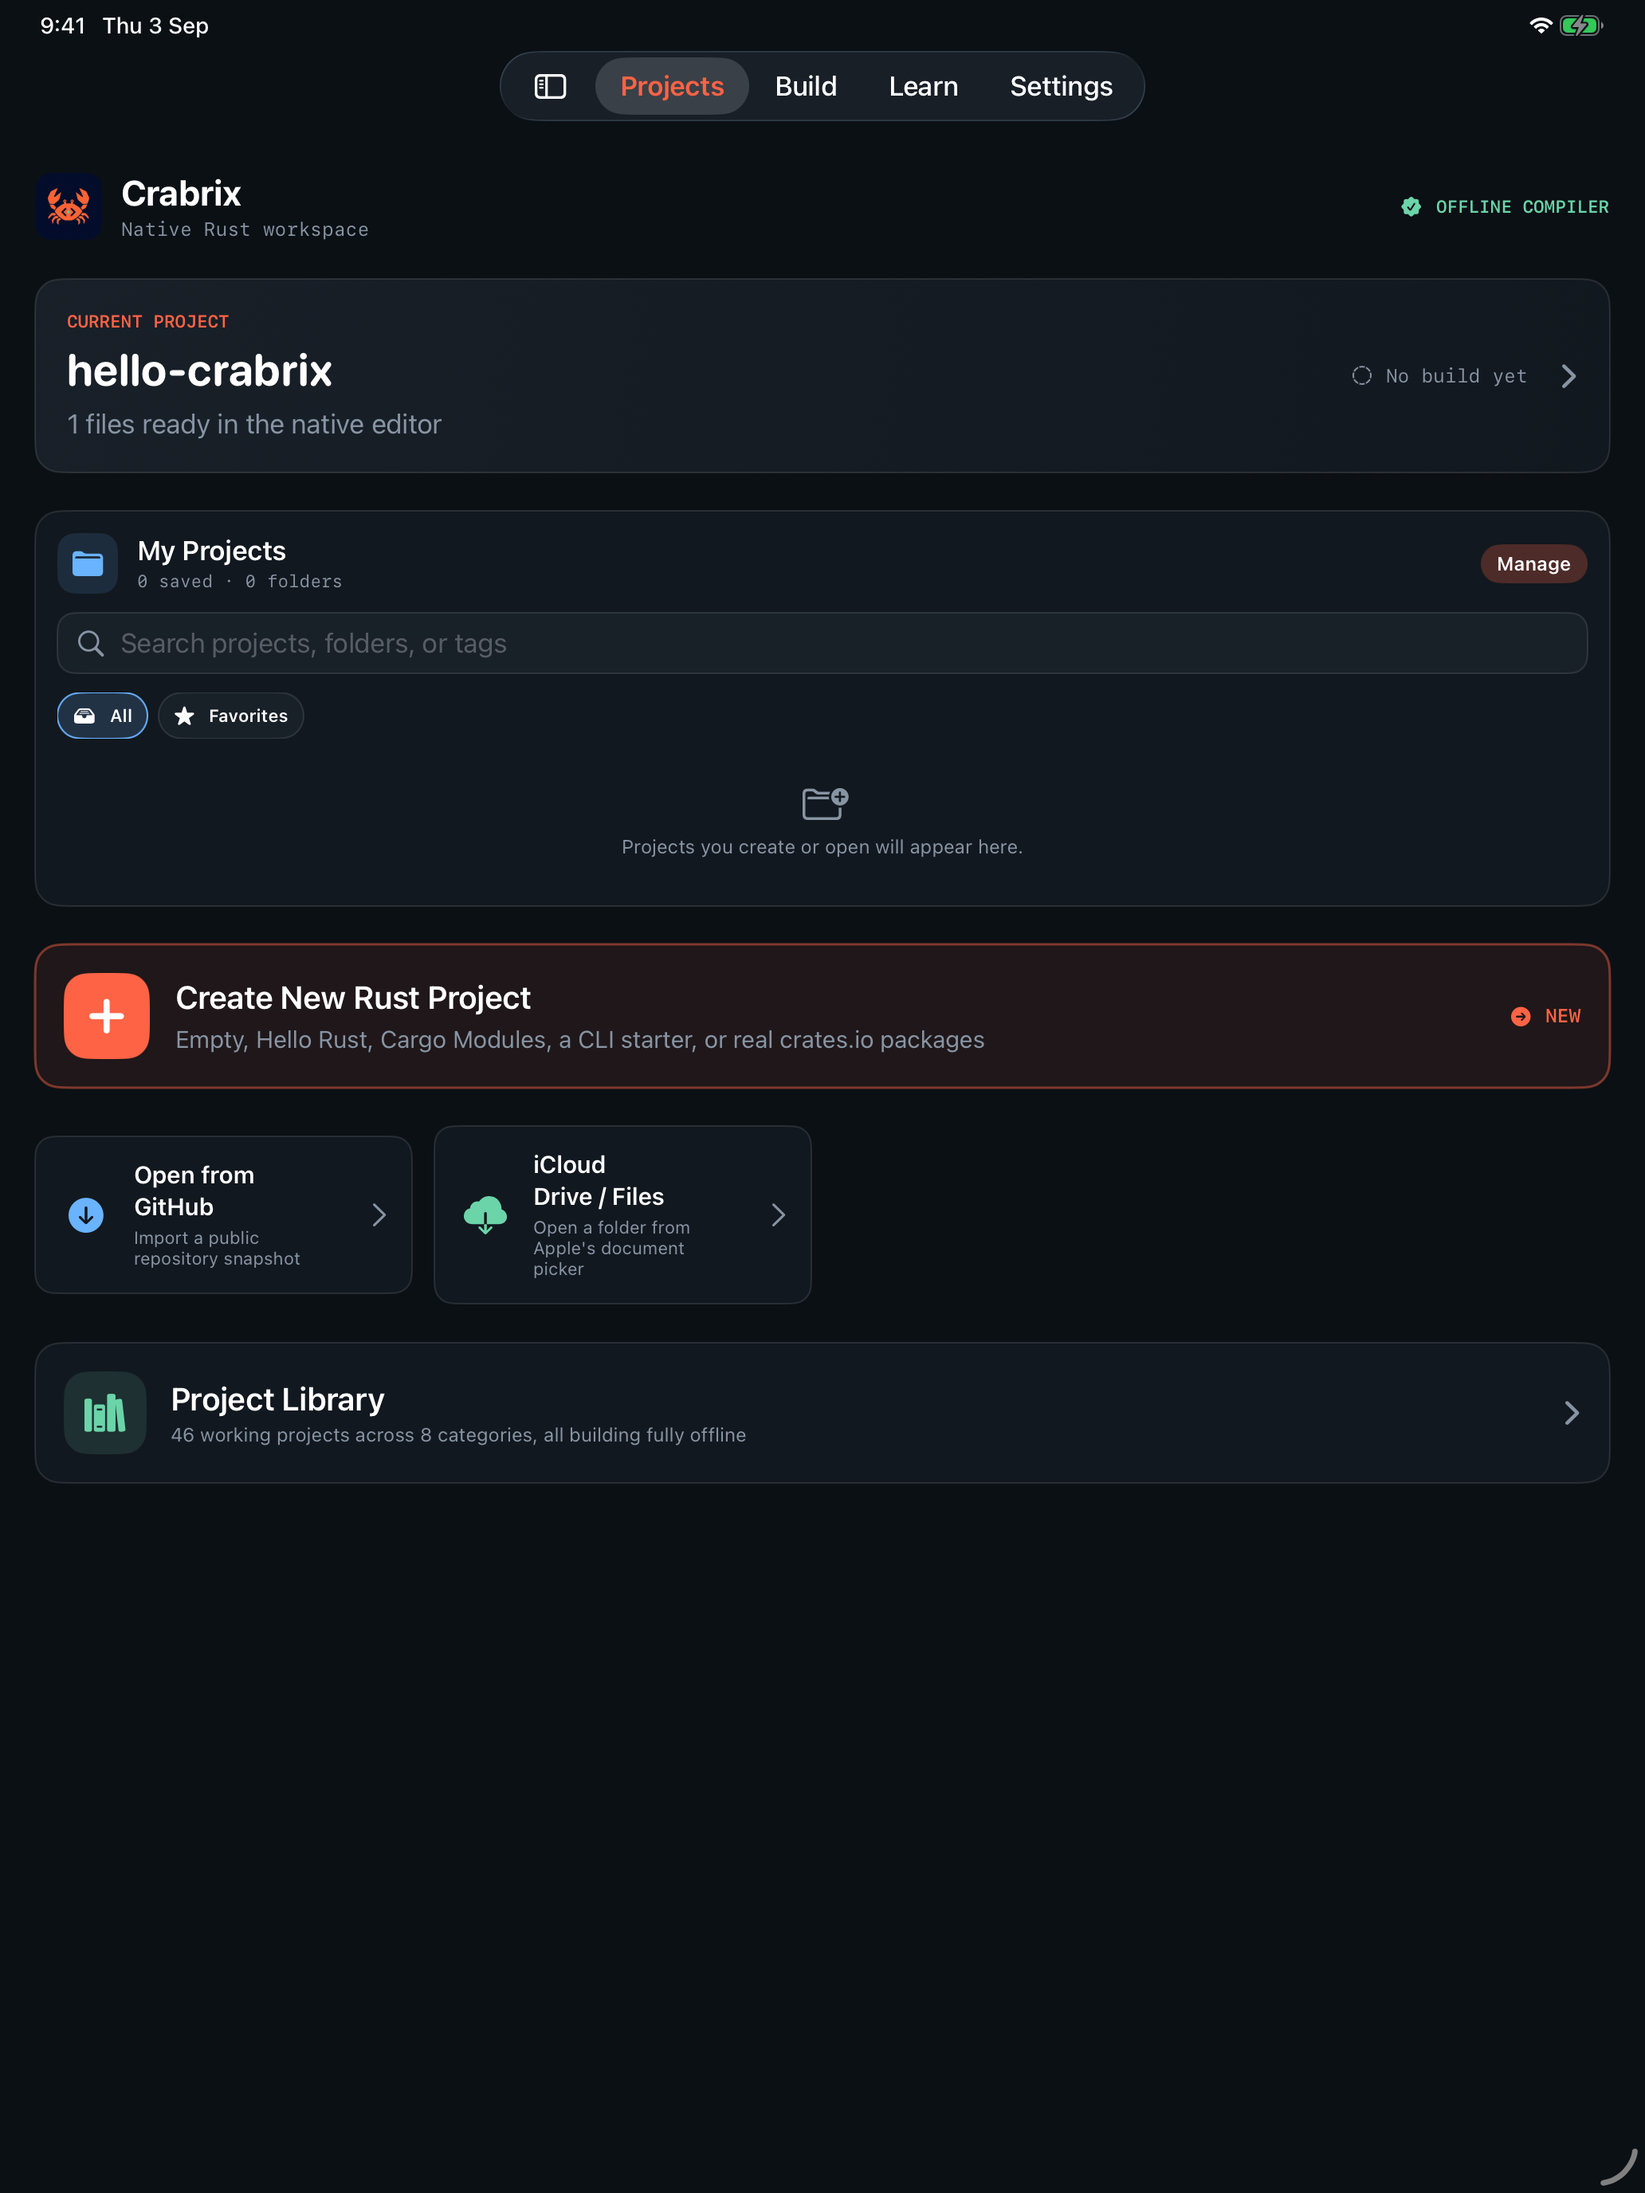
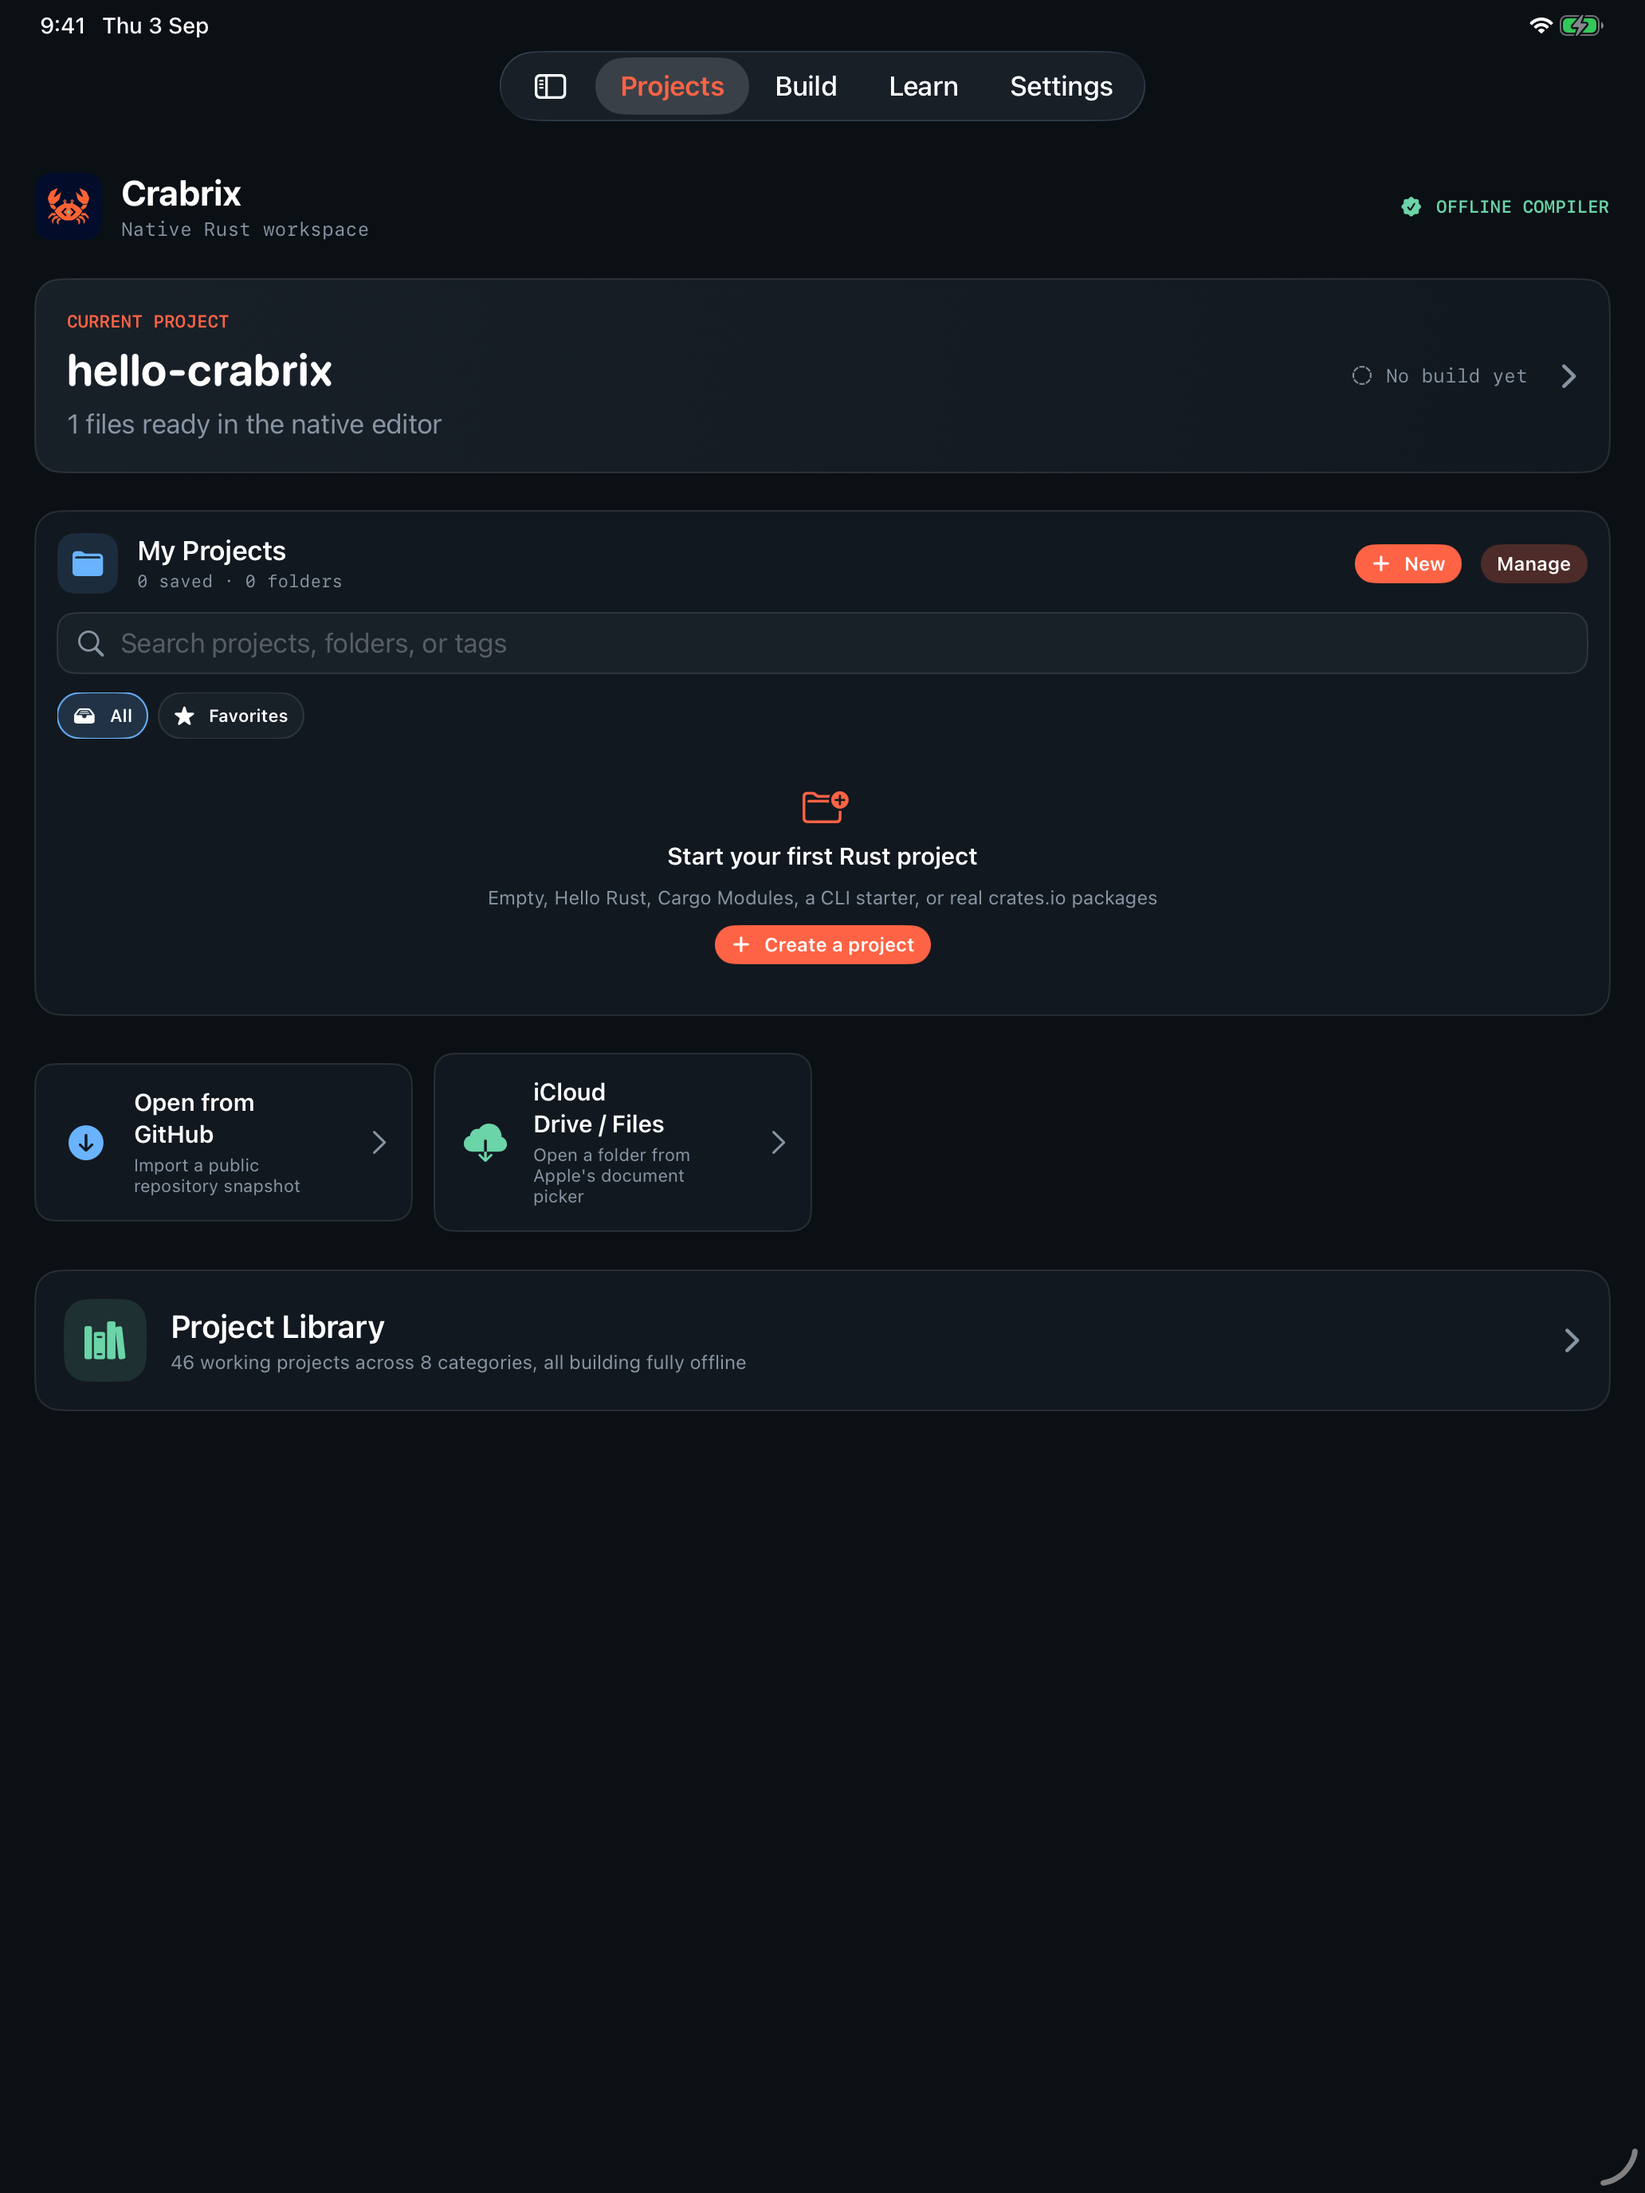
Fold new-project into My Projects and stop promising Apple Intelligence

Changed region(s): [[0.031, 0.4375, 0.5891, 0.6875], [0.3101, 0.3438, 0.7132, 0.4375], [0.8062, 0.25, 0.8992, 0.2812]]

diff --git a/Crabrix/UI/ProjectsHomeView.swift b/Crabrix/UI/ProjectsHomeView.swift
@@ -31,7 +31,6 @@ struct ProjectsHomeView: View {
                 brandHeader
                 hero
                 projectBrowser
-                newProjectBanner
                 LazyVGrid(columns: columns, spacing: 14) {
                     ProjectActionCard(
                         title: "Open from GitHub",
@@ -111,6 +110,15 @@ struct ProjectsHomeView: View {
                         .foregroundStyle(CrabrixTheme.muted)
                 }
                 Spacer(minLength: 0)
+                Button(action: onNewProject) {
+                    Label("New", systemImage: "plus")
+                }
+                .font(.caption.bold())
+                .buttonStyle(.borderedProminent)
+                .controlSize(.small)
+                .tint(CrabrixTheme.coral)
+                .accessibilityLabel("Create a new Rust project from a template")
+
                 Button("Manage", action: onOpenMyProjects)
                     .font(.caption.bold())
                     .buttonStyle(.bordered)
@@ -196,18 +204,20 @@ struct ProjectsHomeView: View {
             }
 
             if filteredProjects.isEmpty {
-                VStack(spacing: 8) {
-                    Image(systemName: allProjects.isEmpty ? "folder.badge.plus" : "magnifyingglass")
-                        .font(.title2)
-                        .foregroundStyle(CrabrixTheme.muted)
-                    Text(allProjects.isEmpty
-                         ? "Projects you create or open will appear here."
-                         : "No projects match these filters.")
-                        .font(.caption)
-                        .foregroundStyle(CrabrixTheme.muted)
+                if allProjects.isEmpty {
+                    firstProjectPrompt
+                } else {
+                    VStack(spacing: 8) {
+                        Image(systemName: "magnifyingglass")
+                            .font(.title2)
+                            .foregroundStyle(CrabrixTheme.muted)
+                        Text("No projects match these filters.")
+                            .font(.caption)
+                            .foregroundStyle(CrabrixTheme.muted)
+                    }
+                    .frame(maxWidth: .infinity)
+                    .padding(.vertical, 16)
                 }
-                .frame(maxWidth: .infinity)
-                .padding(.vertical, 16)
             } else {
                 LazyVStack(spacing: 7) {
                     ForEach(Array(filteredProjects.prefix(3))) { item in
@@ -341,38 +351,31 @@ struct ProjectsHomeView: View {
         .accessibilityLabel("Open current project \(projectName)")
     }
 
-    private var newProjectBanner: some View {
-        Button(action: onNewProject) {
-            HStack(spacing: 16) {
-                Image(systemName: "plus")
-                    .font(.system(size: 26, weight: .bold))
-                    .foregroundStyle(.white)
-                    .frame(width: 54, height: 54)
-                    .background(CrabrixTheme.coral, in: RoundedRectangle(cornerRadius: 15))
-                VStack(alignment: .leading, spacing: 5) {
-                    Text("Create New Rust Project")
-                        .font(.title3.bold())
-                        .foregroundStyle(CrabrixTheme.primary)
-                    Text("Empty, Hello Rust, Cargo Modules, a CLI starter, or real crates.io packages")
-                        .font(.subheadline)
-                        .foregroundStyle(CrabrixTheme.muted)
-                }
-                Spacer()
-                Label("NEW", systemImage: "arrow.right.circle.fill")
-                    .font(.caption.monospaced().bold())
-                    .foregroundStyle(CrabrixTheme.coral)
+    /// With nothing saved yet, this *is* the create action: a separate banner
+    /// under the list only repeated what the empty list already implied.
+    private var firstProjectPrompt: some View {
+        VStack(spacing: 10) {
+            Image(systemName: "folder.badge.plus")
+                .font(.title2)
+                .foregroundStyle(CrabrixTheme.coral)
+            Text("Start your first Rust project")
+                .font(.subheadline.weight(.semibold))
+            Text("Empty, Hello Rust, Cargo Modules, a CLI starter, or real crates.io packages")
+                .font(.caption)
+                .foregroundStyle(CrabrixTheme.muted)
+                .multilineTextAlignment(.center)
+                .fixedSize(horizontal: false, vertical: true)
+            Button(action: onNewProject) {
+                Label("Create a project", systemImage: "plus")
+                    .font(.caption.bold())
             }
-            .padding(18)
-            .frame(maxWidth: .infinity, alignment: .leading)
-            .background(CrabrixTheme.coral.opacity(0.08))
-            .clipShape(RoundedRectangle(cornerRadius: 16, style: .continuous))
-            .overlay {
-                RoundedRectangle(cornerRadius: 16, style: .continuous)
-                    .stroke(CrabrixTheme.coral.opacity(0.45), lineWidth: 1.5)
-            }
+            .buttonStyle(.borderedProminent)
+            .controlSize(.small)
+            .tint(CrabrixTheme.coral)
         }
-        .buttonStyle(.plain)
-        .accessibilityLabel("Create a new Rust project from a template")
+        .frame(maxWidth: .infinity)
+        .padding(.vertical, 18)
+        .padding(.horizontal, 6)
     }
 
     private func sectionTitle(_ title: String, detail: String) -> some View {

diff --git a/Crabrix/Editor/SyntaxCodeEditor.swift b/Crabrix/Editor/SyntaxCodeEditor.swift
@@ -19,6 +19,10 @@ struct SyntaxCodeEditor: UIViewRepresentable {
     let tracksTyping: Bool
     let diagnostics: [RustDiagnostic]
     let navigationTarget: EditorNavigationTarget?
+    /// Whether the assistant key will actually reach Apple Intelligence. When
+    /// it will not, the key still completes Rust offline — it just stops
+    /// wearing Apple Intelligence's sparkle to say so.
+    let assistantUsesAppleIntelligence: Bool
     let onRequestCompletion: () -> Void
 
     init(
@@ -30,6 +34,7 @@ struct SyntaxCodeEditor: UIViewRepresentable {
         tracksTyping: Bool = true,
         diagnostics: [RustDiagnostic] = [],
         navigationTarget: EditorNavigationTarget?,
+        assistantUsesAppleIntelligence: Bool = false,
         onRequestCompletion: @escaping () -> Void
     ) {
         _text = text
@@ -40,6 +45,7 @@ struct SyntaxCodeEditor: UIViewRepresentable {
         self.tracksTyping = tracksTyping
         self.diagnostics = diagnostics
         self.navigationTarget = navigationTarget
+        self.assistantUsesAppleIntelligence = assistantUsesAppleIntelligence
         self.onRequestCompletion = onRequestCompletion
     }
 
@@ -74,6 +80,7 @@ struct SyntaxCodeEditor: UIViewRepresentable {
         textView.text = text
         context.coordinator.textView = textView
         textView.inputAccessoryView = RustKeyboardAccessoryView(
+            usesAppleIntelligence: assistantUsesAppleIntelligence,
             onInsert: { [weak coordinator = context.coordinator] symbol in
                 coordinator?.insert(symbol)
             },
@@ -90,6 +97,8 @@ struct SyntaxCodeEditor: UIViewRepresentable {
 
     func updateUIView(_ textView: UITextView, context: Context) {
         context.coordinator.parent = self
+        (textView.inputAccessoryView as? RustKeyboardAccessoryView)?
+            .setUsesAppleIntelligence(assistantUsesAppleIntelligence)
         textView.isEditable = isEditable
         textView.backgroundColor = UIColor(CrabrixTheme.editor)
         textView.keyboardAppearance = colorScheme == .dark ? .dark : .light
@@ -573,12 +582,15 @@ private final class GutterView: UIView {
 
 private final class RustKeyboardAccessoryView: UIView {
     private let symbols = ["::", "->", "=>", "&", "&mut ", "|", "_", "!", "<", ">", "{", "}", "[", "]", "(", ")", ";"]
+    private let completeButton: UIButton
 
     init(
+        usesAppleIntelligence: Bool,
         onInsert: @escaping (String) -> Void,
         onComplete: @escaping () -> Void,
         onDismiss: @escaping () -> Void
     ) {
+        completeButton = Self.assistantButton(usesAppleIntelligence: usesAppleIntelligence)
         super.init(frame: .zero)
         backgroundColor = .secondarySystemBackground
         autoresizingMask = .flexibleHeight
@@ -593,12 +605,6 @@ private final class RustKeyboardAccessoryView: UIView {
         stack.alignment = .center
         stack.translatesAutoresizingMaskIntoConstraints = false
 
-        let completeButton = accessoryButton(
-            title: nil,
-            systemImage: "sparkles",
-            tint: .systemBlue,
-            accessibilityLabel: "Complete Rust code"
-        )
         completeButton.addAction(UIAction { _ in onComplete() }, for: .touchUpInside)
         completeButton.translatesAutoresizingMaskIntoConstraints = false
         completeButton.setContentHuggingPriority(.required, for: .horizontal)
@@ -667,6 +673,45 @@ private final class RustKeyboardAccessoryView: UIView {
     @available(*, unavailable)
     required init?(coder: NSCoder) {
         fatalError("init(coder:) has not been implemented")
+    }
+
+    /// Keeps the key honest when the setting or the device's eligibility
+    /// changes while the keyboard is already on screen.
+    func setUsesAppleIntelligence(_ usesAppleIntelligence: Bool) {
+        Self.applyAssistantAppearance(
+            to: completeButton,
+            usesAppleIntelligence: usesAppleIntelligence
+        )
+    }
+
+    private static func assistantButton(usesAppleIntelligence: Bool) -> UIButton {
+        var configuration = UIButton.Configuration.gray()
+        configuration.imagePadding = 4
+        configuration.cornerStyle = .small
+        configuration.contentInsets = NSDirectionalEdgeInsets(
+            top: 5, leading: 9, bottom: 5, trailing: 9
+        )
+        let button = UIButton(configuration: configuration)
+        applyAssistantAppearance(to: button, usesAppleIntelligence: usesAppleIntelligence)
+        return button
+    }
+
+    /// Apple Intelligence's sparkle only when Apple Intelligence will answer.
+    /// Otherwise the same key completes Rust from the offline model, and says
+    /// so with a plain code glyph rather than borrowing a promise.
+    private static func applyAssistantAppearance(
+        to button: UIButton,
+        usesAppleIntelligence: Bool
+    ) {
+        var configuration = button.configuration ?? UIButton.Configuration.gray()
+        configuration.image = UIImage(
+            systemName: usesAppleIntelligence ? "sparkles" : "curlybraces"
+        )
+        configuration.baseForegroundColor = usesAppleIntelligence ? .systemBlue : .label
+        button.configuration = configuration
+        button.accessibilityLabel = usesAppleIntelligence
+            ? "Complete Rust code with Apple Intelligence"
+            : "Complete Rust code offline"
     }
 
     private func accessoryButton(

diff --git a/Crabrix/Editor/RustCodeCompletion.swift b/Crabrix/Editor/RustCodeCompletion.swift
@@ -101,6 +101,19 @@ final class RustCompletionController: ObservableObject {
 }
 
 enum RustCompletionSupport {
+    /// Whether Apple Intelligence would actually answer on this device right
+    /// now. The editor asks before showing a sparkle: an Apple Intelligence
+    /// glyph over a deterministic offline completion promises the wrong thing.
+    @MainActor
+    static var isAppleIntelligenceAvailable: Bool {
+        #if canImport(FoundationModels)
+        if #available(iOS 26.0, *) {
+            if case .available = SystemLanguageModel.default.availability { return true }
+        }
+        #endif
+        return false
+    }
+
     @MainActor
     static var appleIntelligenceStatus: String {
         #if canImport(FoundationModels)

diff --git a/Crabrix/UI/ContentView.swift b/Crabrix/UI/ContentView.swift
@@ -662,6 +662,8 @@ struct ContentView: View {
                 tracksTyping: !model.activeLessonIsReview,
                 diagnostics: model.result?.diagnostics ?? [],
                 navigationTarget: editorNavigationTarget,
+                assistantUsesAppleIntelligence: appleIntelligenceCompletion
+                    && RustCompletionSupport.isAppleIntelligenceAvailable,
                 onRequestCompletion: requestEditorAssistant
             )
 
